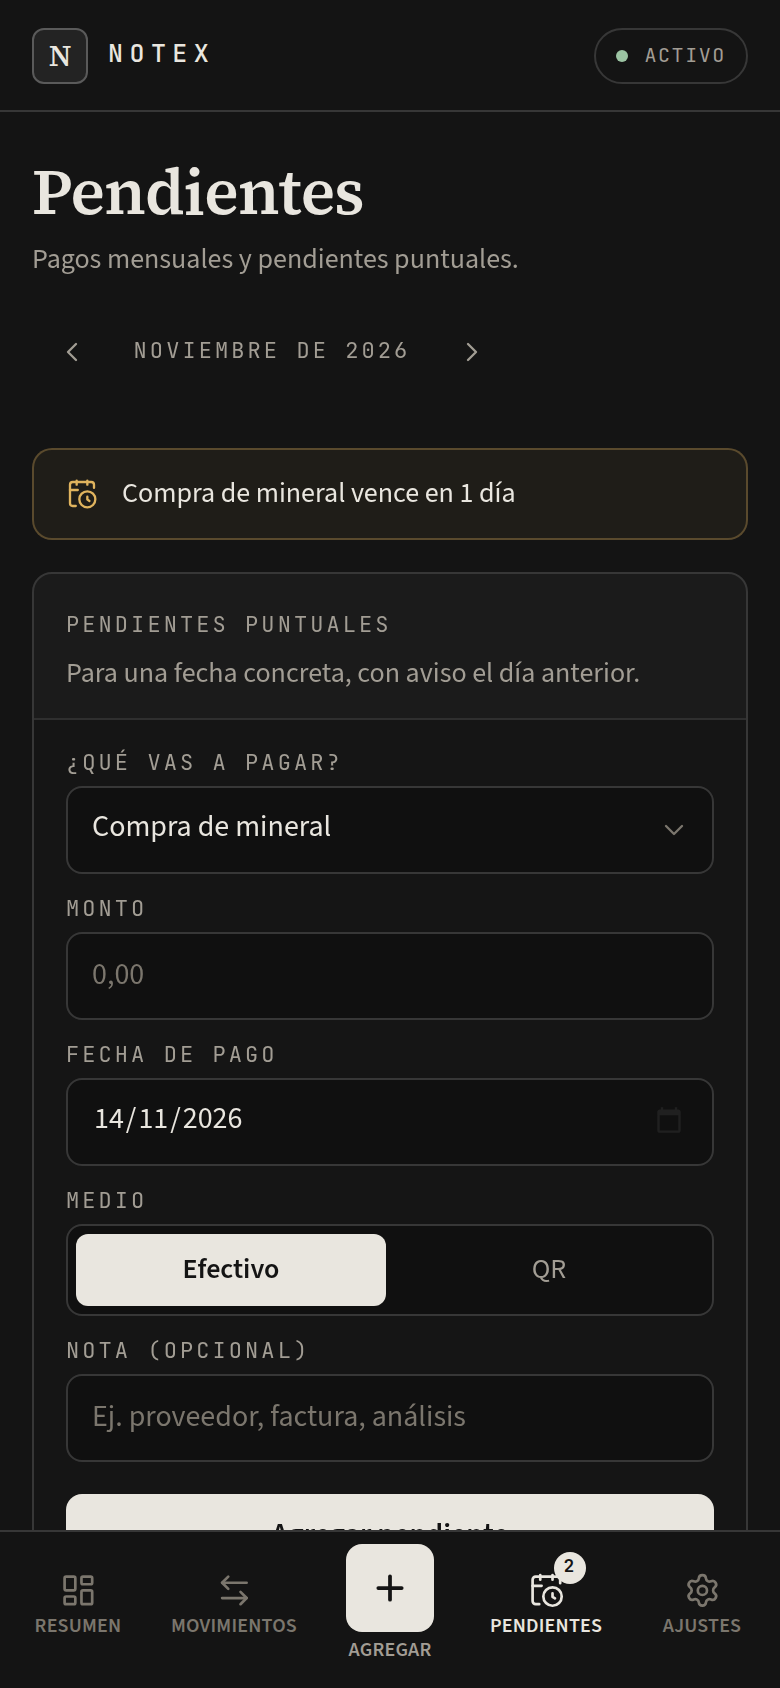
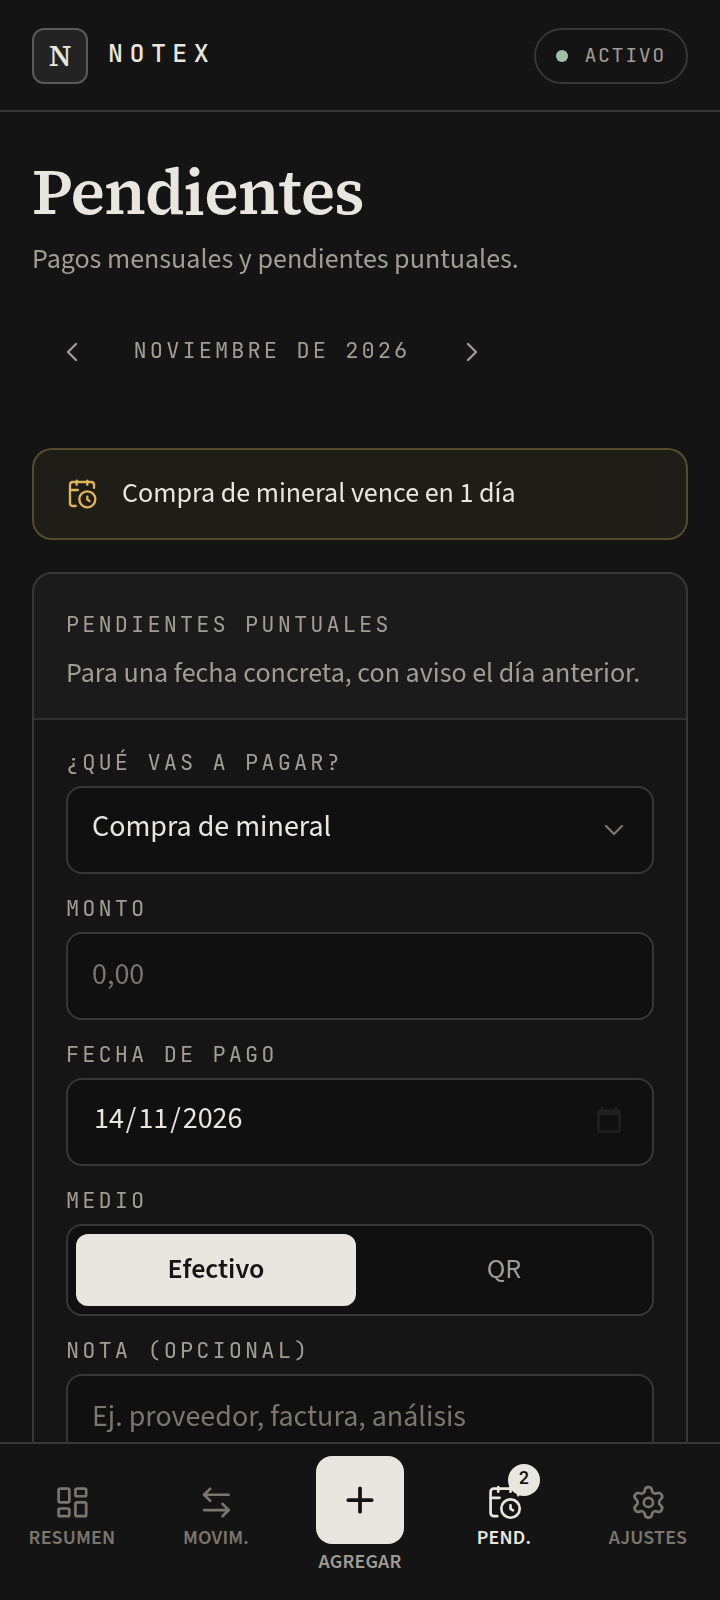
Notex 0.2.5: resumen de pendientes y barra inferior a 360 px

diff --git a/src/screens/Pending.tsx b/src/screens/Pending.tsx
@@ -611,35 +611,41 @@ export function PendingScreen({
         )}
       </Panel>
 
-      <div className="mb-4 grid grid-cols-3 divide-x divide-line rounded-panel border border-line bg-panel">
-        <div className="px-4 py-3">
-          <Micro>Pendientes</Micro>
+      <div className="mb-4 grid grid-cols-1 divide-y divide-line rounded-panel border border-line bg-panel sm:grid-cols-3 sm:divide-x sm:divide-y-0">
+        <div className="flex items-center justify-between gap-3 px-4 py-3 sm:block">
+          <div>
+            <Micro>Pendientes</Micro>
+            <span className="mt-0.5 block text-[11px] text-dim">
+              {groups.pending.length} pagos
+            </span>
+          </div>
           <Money
             cents={pendingTotal}
             symbol={false}
-            className="mt-1 block font-mono text-[0.95rem]"
+            className="shrink-0 font-mono text-[0.95rem] sm:mt-1 sm:block"
           />
-          <span className="mt-0.5 block text-[11px] text-dim">
-            {groups.pending.length} pagos
-          </span>
         </div>
-        <div className="px-4 py-3">
-          <Micro>Pagados</Micro>
+        <div className="flex items-center justify-between gap-3 px-4 py-3 sm:block">
+          <div>
+            <Micro>Pagados</Micro>
+            <span className="mt-0.5 block text-[11px] text-dim">
+              {groups.paid.length} pagos
+            </span>
+          </div>
           <Money
             cents={paidTotal}
             symbol={false}
-            className="mt-1 block font-mono text-[0.95rem] text-positive"
+            className="shrink-0 font-mono text-[0.95rem] text-positive sm:mt-1 sm:block"
           />
-          <span className="mt-0.5 block text-[11px] text-dim">
-            {groups.paid.length} pagos
-          </span>
         </div>
-        <div className="px-4 py-3">
-          <Micro>Saltados</Micro>
-          <span className="mt-1 block font-mono text-[0.95rem] text-muted">
+        <div className="flex items-center justify-between gap-3 px-4 py-3 sm:block">
+          <div>
+            <Micro>Saltados</Micro>
+            <span className="mt-0.5 block text-[11px] text-dim">este mes</span>
+          </div>
+          <span className="shrink-0 font-mono text-[0.95rem] text-muted">
             {groups.skipped.length}
           </span>
-          <span className="mt-0.5 block text-[11px] text-dim">este mes</span>
         </div>
       </div>
 

diff --git a/src/components/Shell.tsx b/src/components/Shell.tsx
@@ -24,9 +24,9 @@ const NAV = [
 
 const MOBILE_NAV = [
   { route: "dashboard" as Route, label: "Resumen", icon: LayoutDashboard },
-  { route: "movements" as Route, label: "Movimientos", icon: ArrowLeftRight },
+  { route: "movements" as Route, label: "Movim.", icon: ArrowLeftRight },
   { route: "add" as Route, label: "Agregar", icon: Plus },
-  { route: "pending" as Route, label: "Pendientes", icon: CalendarClock },
+  { route: "pending" as Route, label: "Pend.", icon: CalendarClock },
   { route: "settings" as Route, label: "Ajustes", icon: Settings },
 ];
 

diff --git a/AGENTS.md b/AGENTS.md
@@ -9,7 +9,7 @@ La app debe ser simple para un adulto mayor, en español, con montos en bolivian
 Ningún cambio se considera terminado si no se verificó:
 
 1. **La sincronización** entre las dos instalaciones.
-2. **La vista móvil** en el tamaño del teléfono del padre: **390 × 844 px** (Honor X6c).
+2. **La vista móvil** en el tamaño del teléfono del padre: **360 × 800 px** (Honor X6c).
 
 Si no se puede probar en el teléfono físico, se prueba con el mismo ancho de viewport y se deja constancia.
 No alcanza con que compile.
@@ -100,7 +100,7 @@ Si se toca el esquema o los defaults, actualizar **las dos** instalaciones a la 
 
 ## 2. Vista móvil obligatoria
 
-El padre usa un **Honor X6c**, Android 15, ~390 × 844 CSS px. La app tiene:
+El padre usa un **Honor X6c**, Android 15, ~360 × 800 CSS px. La app tiene:
 
 - barra superior con marca y estado de sync;
 - navegación inferior fija de 5 ítems: Resumen, Movimientos, Agregar, Pendientes, Ajustes;
@@ -108,7 +108,7 @@ El padre usa un **Honor X6c**, Android 15, ~390 × 844 CSS px. La app tiene:
 
 ### Checklist de pantallas
 
-Probar en 390 px de ancho y, si se puede, en el teléfono real:
+Probar en 360 px de ancho y, si se puede, en el teléfono real:
 
 - **Resumen:** banners de recordatorio/pendientes, tarjetas, últimos movimientos, sin desborde horizontal.
 - **Movimientos:** filtros, filas, método Efectivo/QR, botón de agregar.
@@ -135,7 +135,7 @@ Criterios:
 
 - App de escritorio: `npm run tauri dev`.
 - **Verificación móvil automática:** `npm run mobile:check`.
-  - Construye el frontend, levanta un servidor local y abre Chromium con **390 × 844**, `deviceScaleFactor: 2`, táctil.
+  - Construye el frontend, levanta un servidor local y abre Chromium con **360 × 800**, `deviceScaleFactor: 2`, táctil.
   - Entra a Resumen, Pendientes, Pendientes pagados, formulario de pendiente, Agregar, modal de concepto, Ajustes, modal de concepto, Movimientos, Reportes y Presupuestos.
   - Guarda capturas en `docs/mobile-check/`.
   - Falla si hay desborde horizontal o errores de consola; muestra cuáles.
@@ -170,7 +170,7 @@ Antes de publicar una versión:
 1. `npm run build` sin errores.
 2. `cargo test` sin fallos.
 3. Prueba de sincronización de ida y vuelta con las entidades tocadas.
-4. Revisión móvil de las pantallas afectadas en 390 px.
+4. Revisión móvil de las pantallas afectadas en 360 px.
 5. APK Android firmado + instalador Windows.
 6. Release con notas en español y ambas instalaciones.
 7. Verificar que la app abra con la base migrada, sin pendientes por defecto y sin errores en consola.
